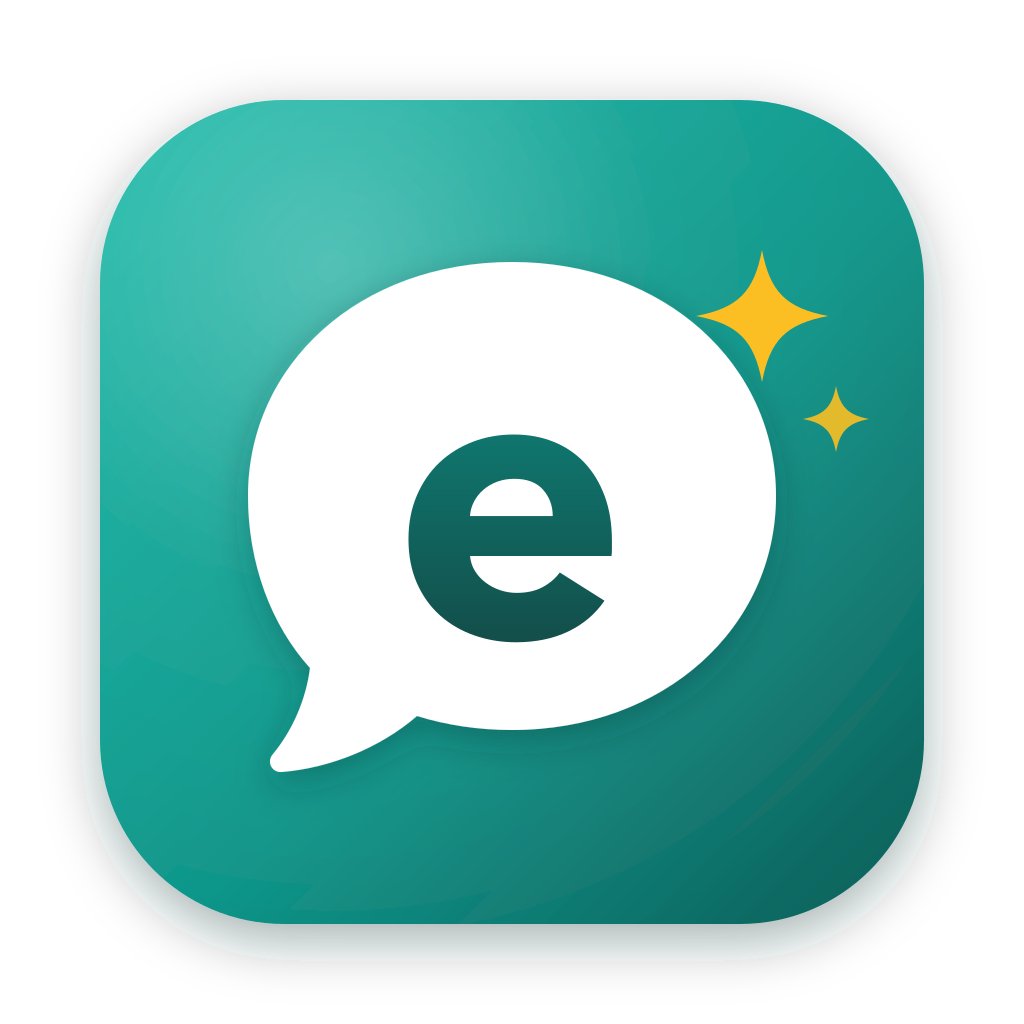
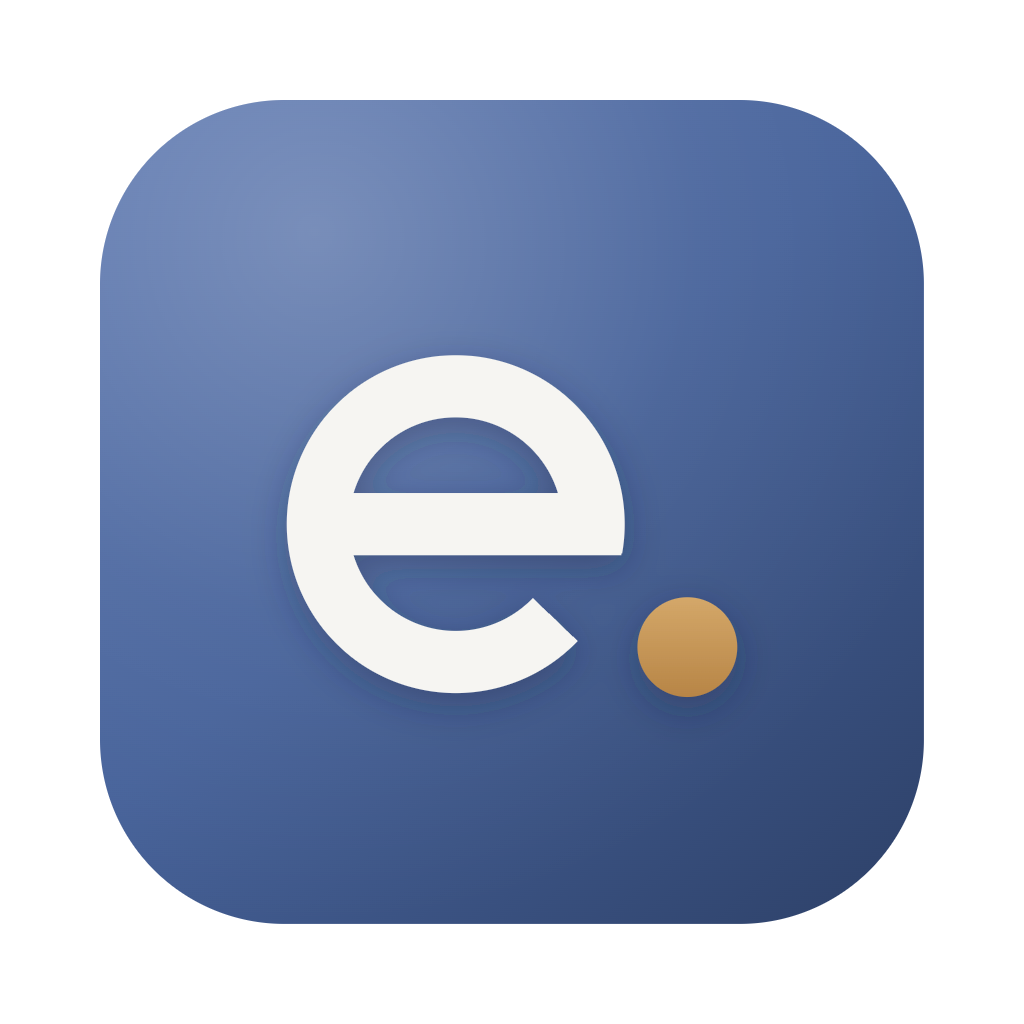
feat(icono): rediseña el icono con la identidad «Café sereno» (#155)
El icono anterior era un teal con burbuja de chat y destellos: ni una sola
pieza de la paleta de la app, y la burbuja es el cliché de cualquier app de
mensajería. El nuevo es el wordmark del producto —la «e» y el punto ámbar que
es la voz de Emma— sobre el azul EMMA, dibujado con geometría (sin depender de
una fuente instalada) y legible a 32 px.

La vitrina enlaza además la última release publicada: `site/ultima-version.js`
lee la API de GitHub y reescribe los botones con el instalador de cada
plataforma, su peso y la fecha. Sin red, el HTML ya apunta a /releases/latest,
así que la página nunca queda sin descarga.

diff --git a/site/ultima-version.js b/site/ultima-version.js
@@ -1,0 +1,82 @@
+/**
+ * Enlaza la vitrina a la ÚLTIMA release publicada, sin tocar el HTML en cada
+ * versión.
+ *
+ * El "why": los botones ya apuntan a /releases/latest, que siempre resuelve a la
+ * última — eso funciona sin JavaScript y es el fallback. Esto sólo mejora lo que
+ * ve quien tiene red: el número de versión, la fecha y el enlace DIRECTO al
+ * instalador de su sistema, para que descargar sea un clic y no tres. Si la API
+ * falla (sin red, límite de peticiones), no se toca nada: el HTML ya es correcto.
+ */
+(() => {
+  const REPO = 'raalzate/emma-desktop';
+
+  // Cada plataforma se reconoce por la extensión de su instalador, no por el
+  // nombre del archivo: el nombre lleva la versión y cambia en cada release.
+  const PLATAFORMAS = {
+    mac: { sufijos: ['.dmg'], etiqueta: 'Descargar el .dmg' },
+    win: { sufijos: ['.exe'], etiqueta: 'Descargar el .exe' },
+    linux: { sufijos: ['.appimage'], etiqueta: 'Descargar el AppImage' },
+  };
+
+  const bytesLegibles = (n) =>
+    n > 1024 * 1024 * 1024
+      ? `${(n / 1024 ** 3).toFixed(1)} GB`
+      : `${Math.round(n / 1024 ** 2)} MB`;
+
+  const fechaLegible = (iso) =>
+    new Date(iso).toLocaleDateString('es', { day: 'numeric', month: 'long', year: 'numeric' });
+
+  /** El sistema del visitante, para destacar su tarjeta. */
+  function sistemaDelVisitante() {
+    const p = `${navigator.userAgentData?.platform || ''} ${navigator.platform || ''} ${navigator.userAgent}`.toLowerCase();
+    if (p.includes('mac')) return 'mac';
+    if (p.includes('win')) return 'win';
+    if (p.includes('linux') || p.includes('x11')) return 'linux';
+    return null;
+  }
+
+  function assetPara(assets, sufijos) {
+    return assets.find((a) => sufijos.some((s) => a.name.toLowerCase().endsWith(s)));
+  }
+
+  async function pintar() {
+    const r = await fetch(`https://api.github.com/repos/${REPO}/releases/latest`, {
+      headers: { Accept: 'application/vnd.github+json' },
+    });
+    if (!r.ok) return;
+    const release = await r.json();
+    const assets = release.assets || [];
+
+    const sello = document.querySelector('[data-version-sello]');
+    if (sello) sello.textContent = `${release.tag_name} · macOS, Windows y Linux`;
+
+    const linea = document.querySelector('[data-version-linea]');
+    if (linea) {
+      linea.textContent = `Última versión: ${release.tag_name}, publicada el ${fechaLegible(release.published_at)}.`;
+    }
+
+    const mio = sistemaDelVisitante();
+
+    for (const [so, { sufijos, etiqueta }] of Object.entries(PLATAFORMAS)) {
+      const tarjeta = document.querySelector(`.plataforma[data-so="${so}"]`);
+      if (!tarjeta) continue;
+
+      const asset = assetPara(assets, sufijos);
+      const boton = tarjeta.querySelector('a.boton');
+      if (asset && boton) {
+        boton.href = asset.browser_download_url;
+        boton.textContent = etiqueta;
+        const peso = document.createElement('span');
+        peso.className = 'peso';
+        peso.textContent = `${asset.name} · ${bytesLegibles(asset.size)}`;
+        tarjeta.appendChild(peso);
+      }
+      if (so === mio) tarjeta.classList.add('tuya');
+    }
+  }
+
+  pintar().catch(() => {
+    /* Sin red o sin API: los enlaces a /releases/latest del HTML siguen siendo válidos. */
+  });
+})();

diff --git a/site/index.html b/site/index.html
@@ -19,7 +19,7 @@
 
 <header class="barra">
   <div class="envoltura">
-    <a class="marca" href="#">emma<span>.</span></a>
+    <a class="marca" href="#"><img src="img/icon.png" alt="" width="32" height="32" />emma<span>.</span></a>
     <nav>
       <a href="#como-funciona">Cómo funciona</a>
       <a href="#la-app">La app por dentro</a>
@@ -34,7 +34,7 @@
 <section class="portada">
   <div class="envoltura portada-rejilla">
     <div>
-      <p class="sello"><i class="punto"></i> Beta pública · macOS, Windows y Linux</p>
+      <p class="sello"><i class="punto"></i> <span data-version-sello>Beta pública · macOS, Windows y Linux</span></p>
       <h1>Hablás inglés todos los días en el trabajo. Practicalo igual.</h1>
       <p class="entradilla">
         EMMA te pone en una escena de trabajo —una daily, un code review, una entrevista—
@@ -233,22 +233,25 @@
       Los instaladores de las tres plataformas viven en la página de releases del proyecto.
     </p>
     <div class="plataformas">
-      <article class="plataforma">
+      <article class="plataforma" data-so="mac">
         <h3>macOS</h3>
         <p>Imagen .dmg para Apple Silicon.</p>
         <a class="boton boton-primario" href="https://github.com/raalzate/emma-desktop/releases/latest">Ir a la descarga</a>
       </article>
-      <article class="plataforma">
+      <article class="plataforma" data-so="win">
         <h3>Windows</h3>
         <p>Instalador .exe de 64 bits.</p>
         <a class="boton boton-primario" href="https://github.com/raalzate/emma-desktop/releases/latest">Ir a la descarga</a>
       </article>
-      <article class="plataforma">
+      <article class="plataforma" data-so="linux">
         <h3>Linux</h3>
         <p>AppImage portable.</p>
         <a class="boton boton-primario" href="https://github.com/raalzate/emma-desktop/releases/latest">Ir a la descarga</a>
       </article>
     </div>
+    <p class="version" data-version-linea>
+      Los botones llevan a la última versión publicada.
+    </p>
     <p class="requisitos">
       Al abrirla por primera vez, EMMA descarga el modelo local (entre 2 y 3 GB). Necesitás una
       GPU con WebGPU y unos 8 GB de RAM para el modelo liviano, 16 GB para el recomendado.
@@ -273,6 +276,8 @@
     </nav>
   </div>
 </footer>
+
+<script src="ultima-version.js"></script>
 
 </body>
 </html>

diff --git a/site/styles.css b/site/styles.css
@@ -74,6 +74,8 @@ img { max-width: 100%; height: auto; display: block; }
   text-decoration: none;
   color: var(--tinta);
 }
+.marca { display: inline-flex; align-items: center; gap: 0.55rem; }
+.marca img { width: 30px; height: 30px; border-radius: 8px; }
 .marca span { color: var(--ambar); }
 .barra nav {
   margin-left: auto;
@@ -300,6 +302,21 @@ a.marco:hover { border-color: var(--azul); }
 .plataforma h3 { font-size: 1.15rem; }
 .plataforma p { margin: 0; color: var(--tinta-suave); font-size: 0.92rem; }
 .plataforma .boton { margin-top: 0.9rem; }
+.plataforma .peso {
+  margin-top: 0.6rem;
+  font-family: "IBM Plex Mono", ui-monospace, monospace;
+  font-size: 0.74rem;
+  color: var(--tinta-suave);
+  word-break: break-all;
+}
+/* La tarjeta del sistema desde el que se mira la página. */
+.plataforma.tuya { border-color: var(--azul); box-shadow: 0 0 0 3px var(--azul-suave); }
+
+.version {
+  margin-top: 1.6rem;
+  font-size: 0.95rem;
+  color: var(--tinta-suave);
+}
 .requisitos {
   margin-top: 2rem;
   font-size: 0.9rem;
